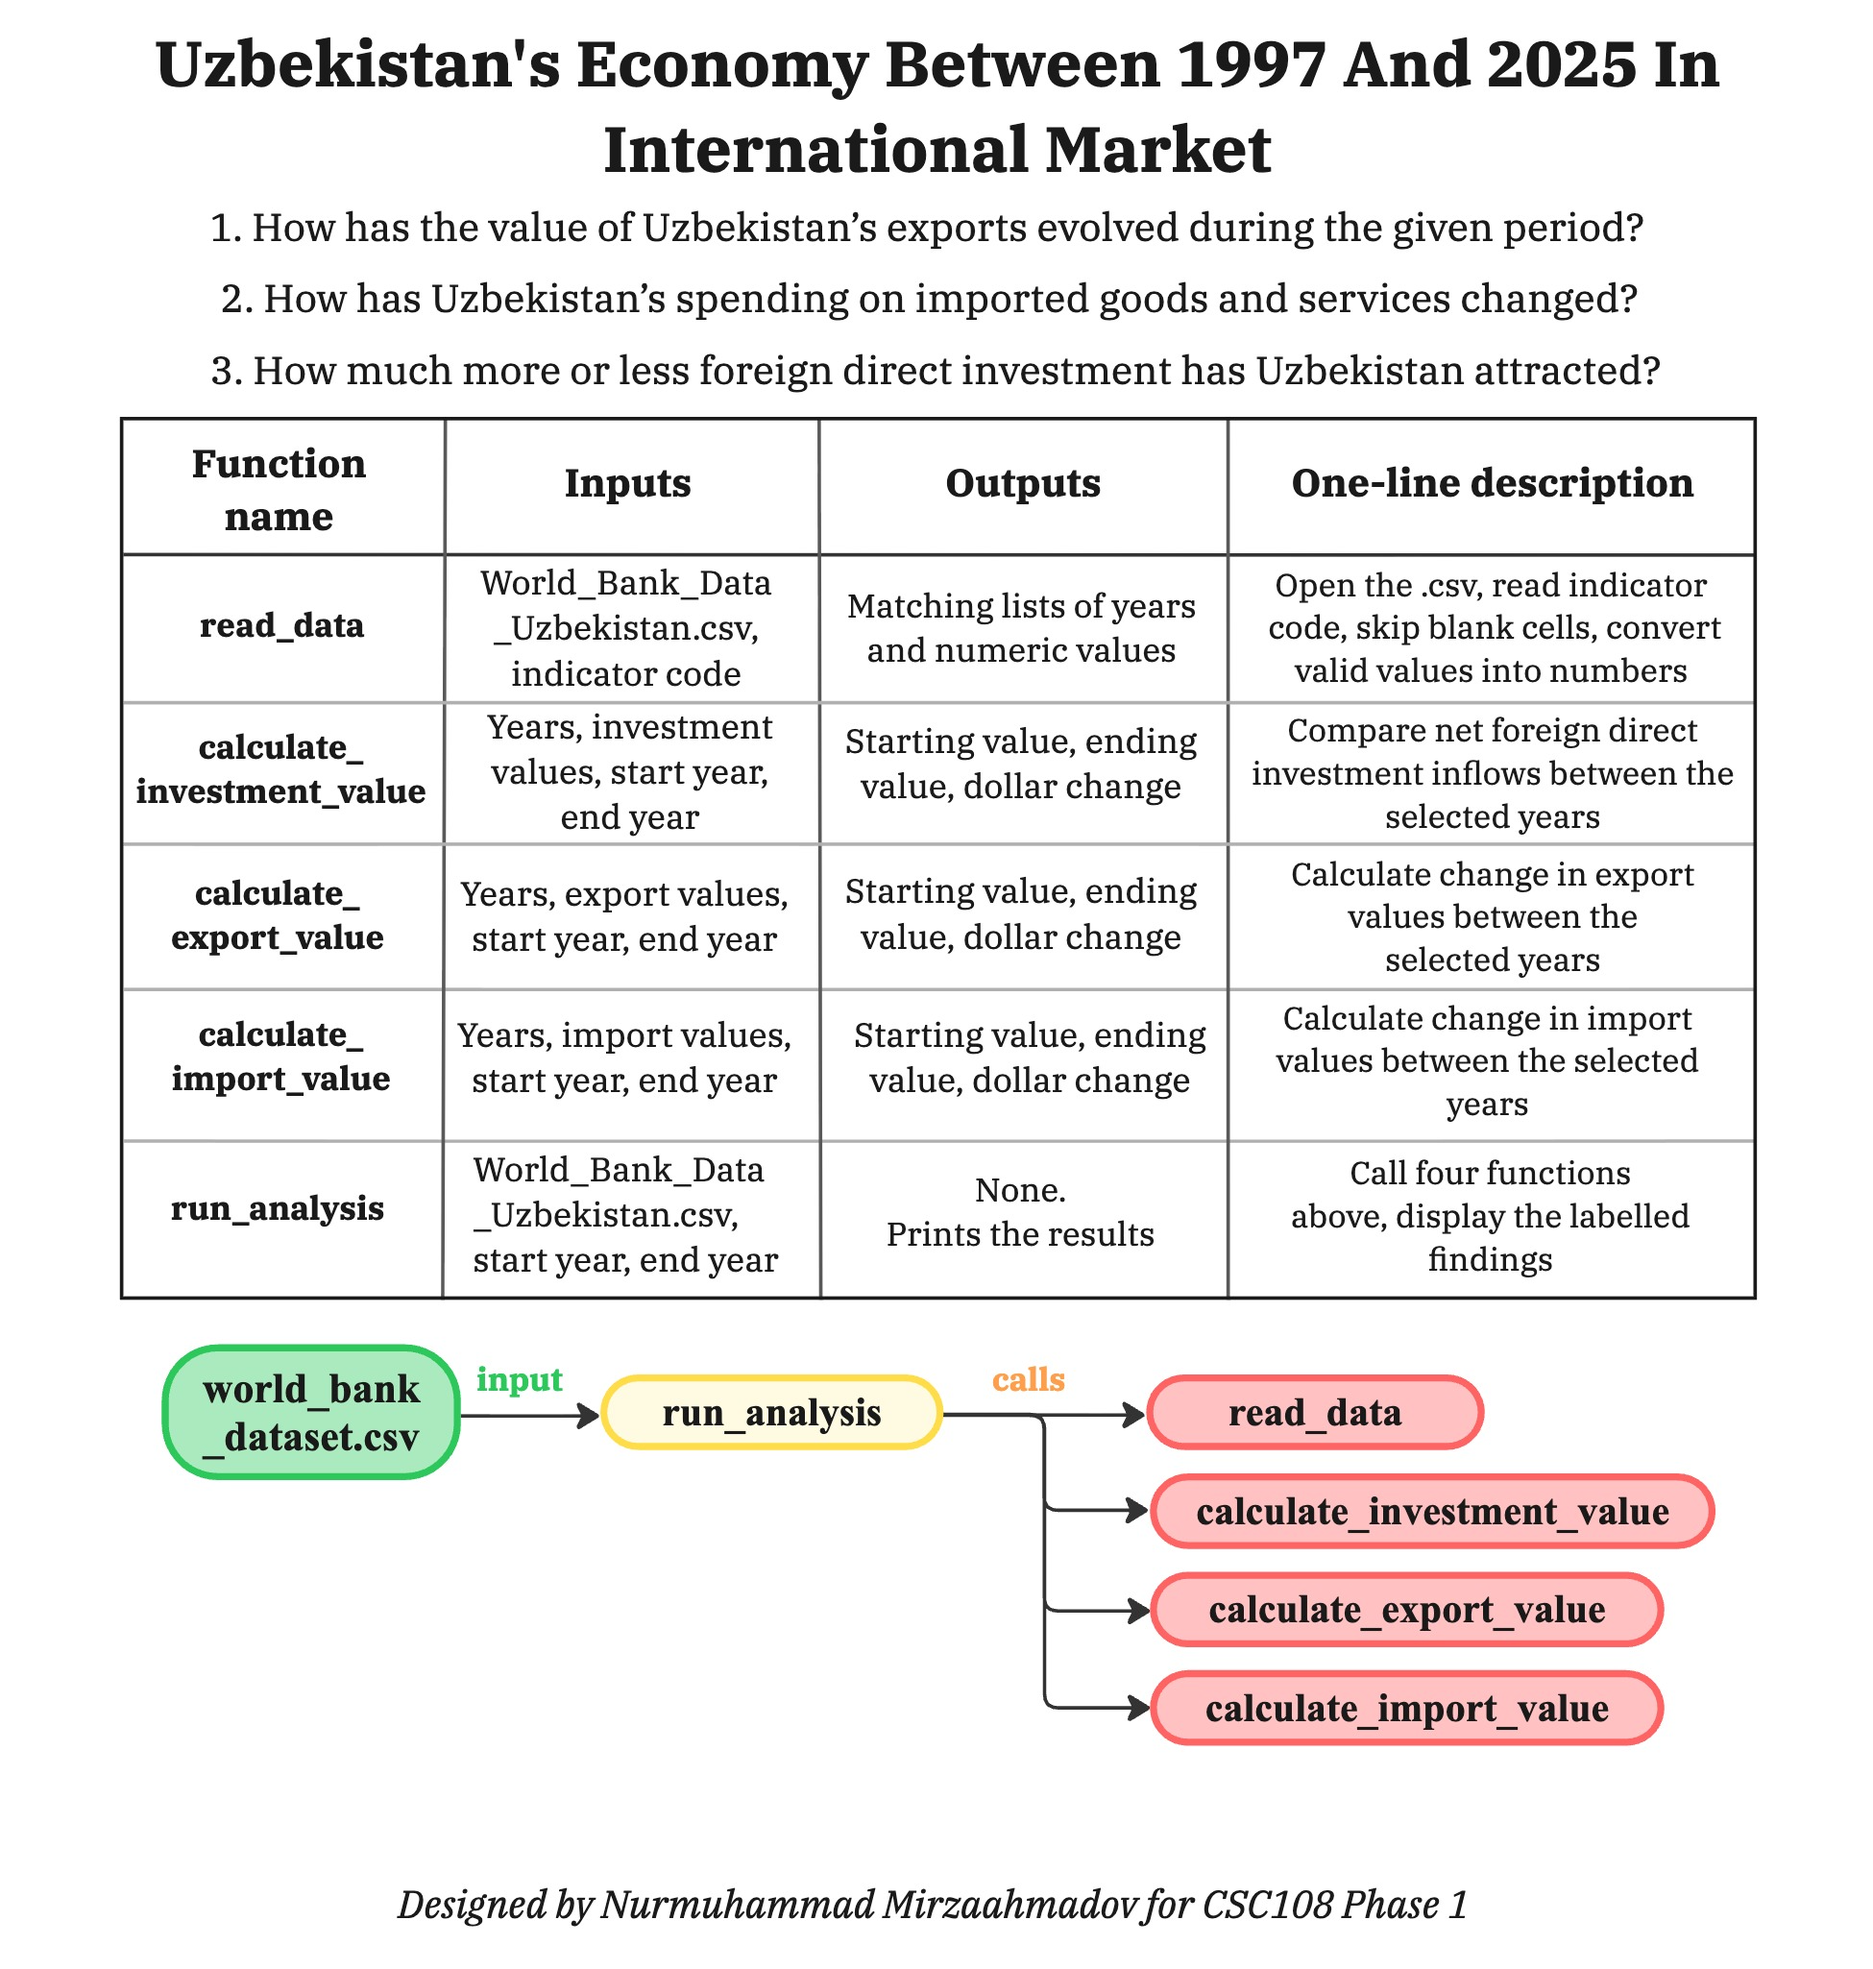
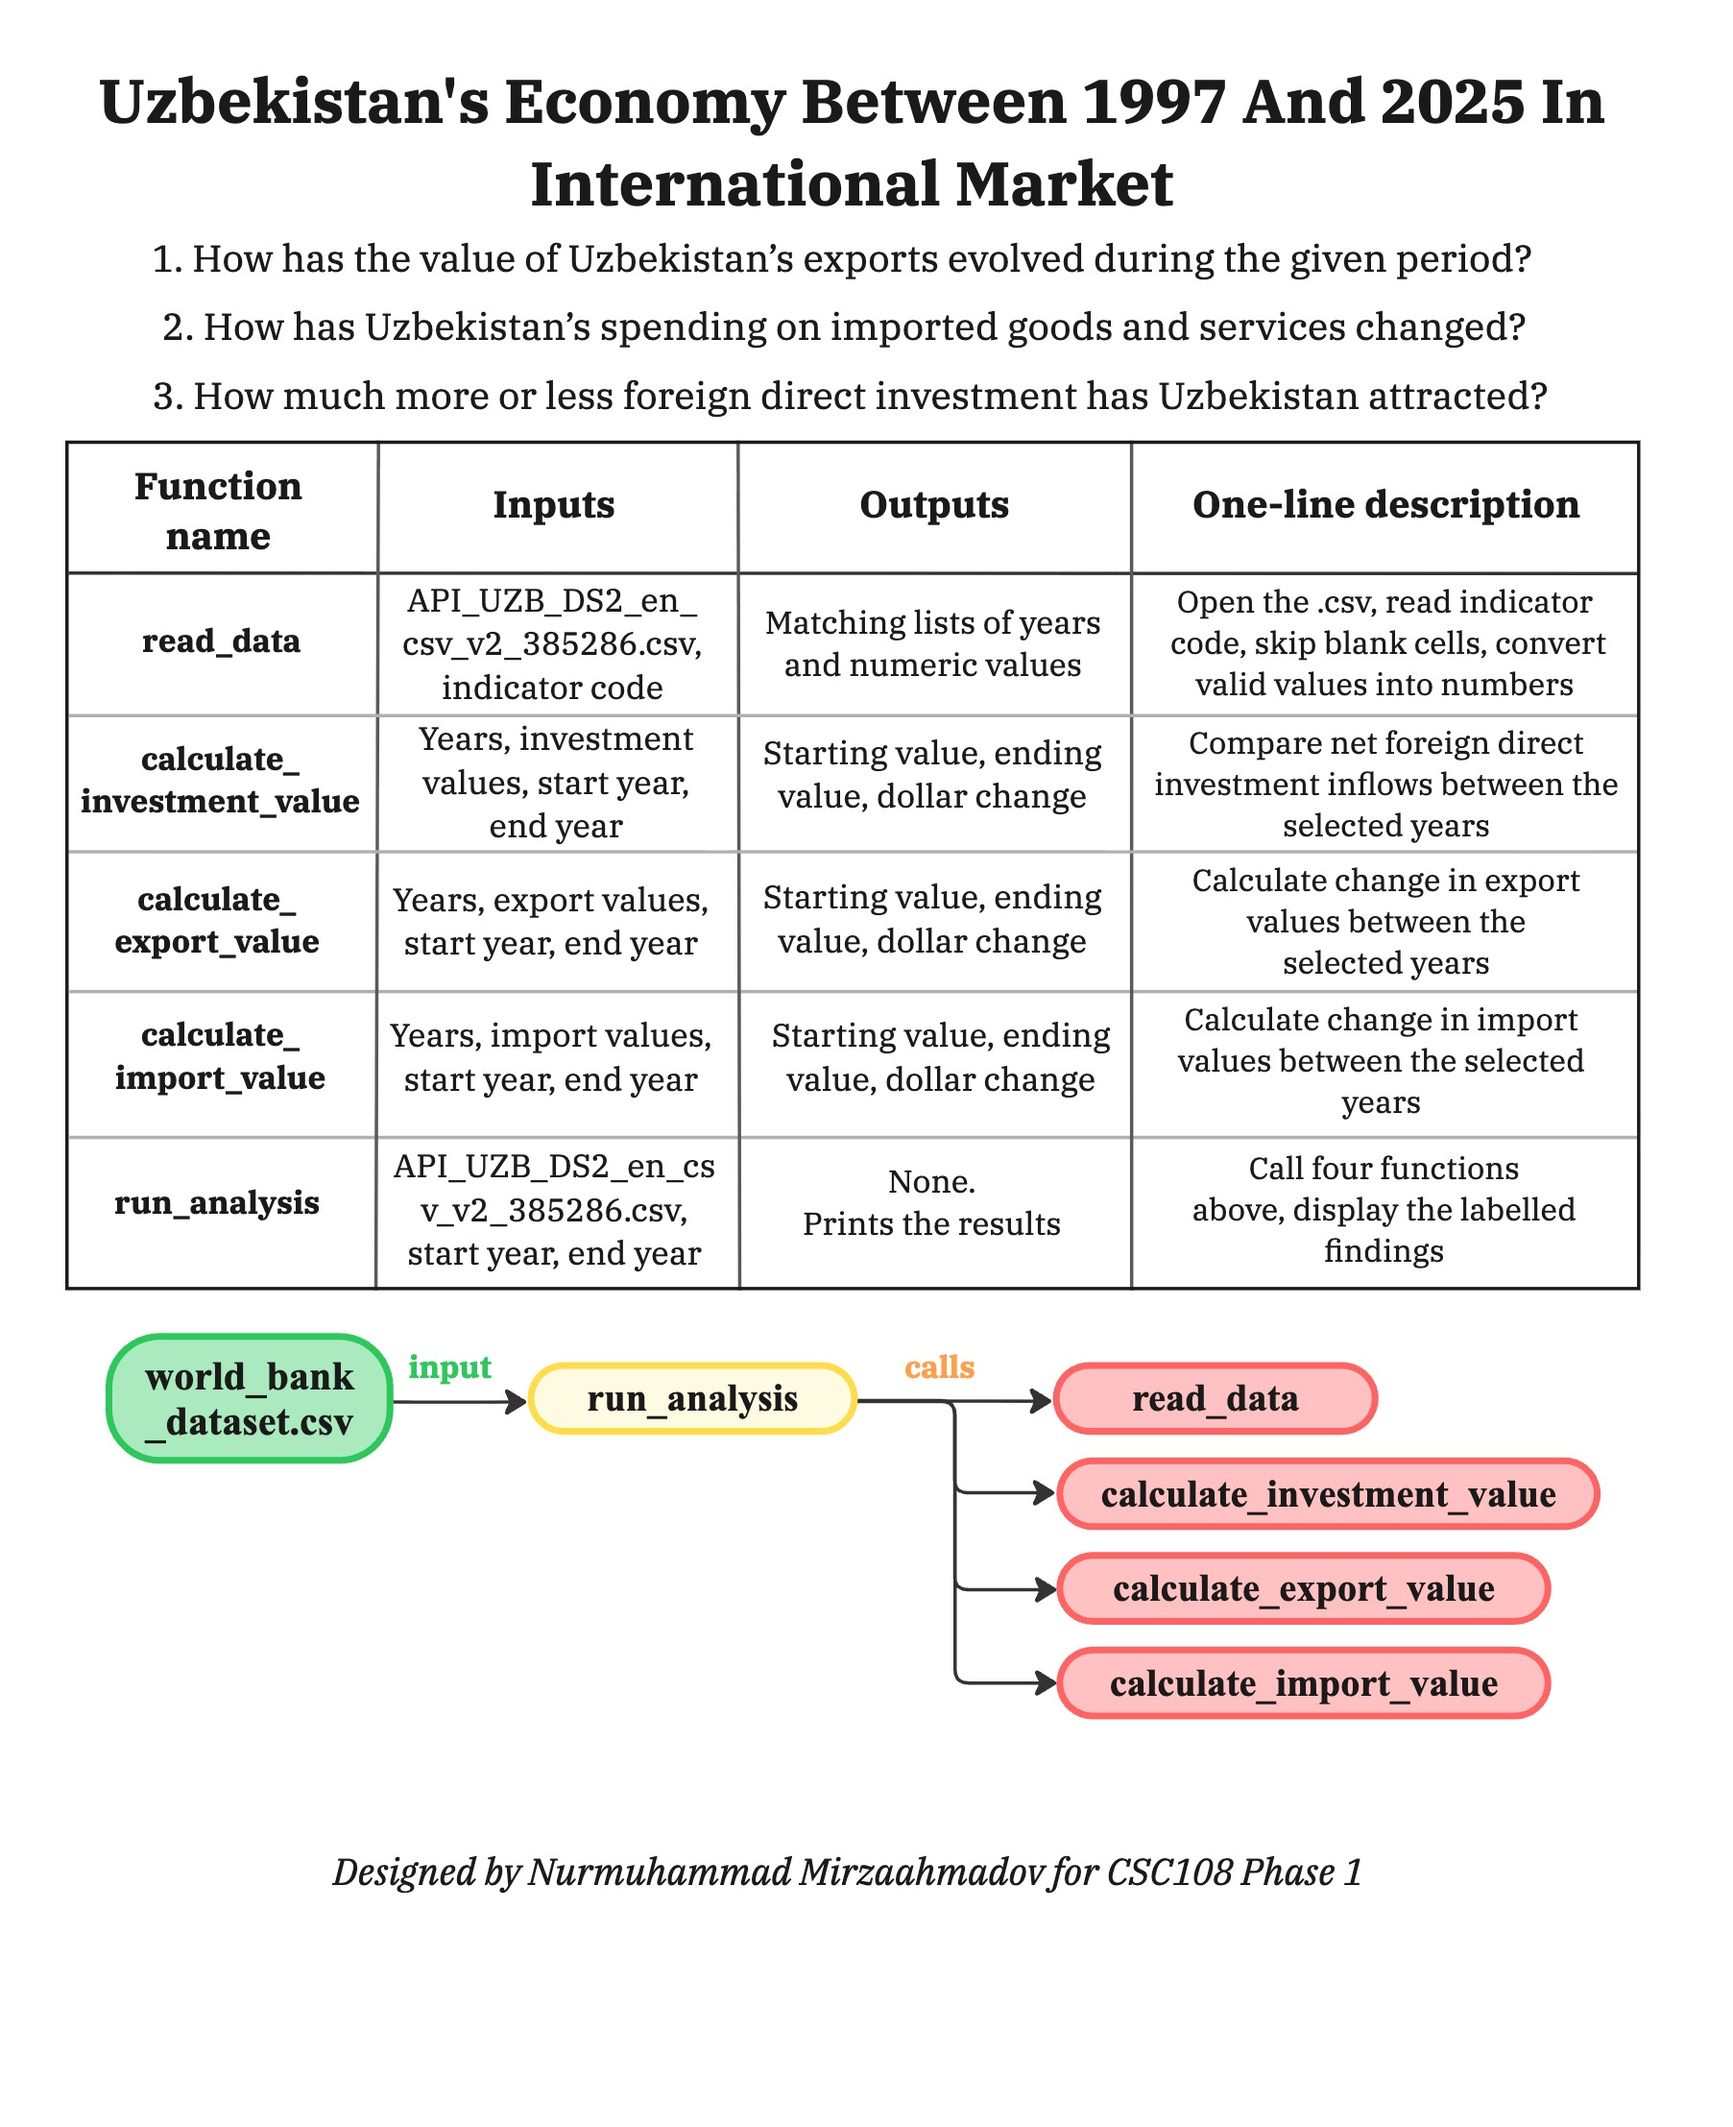
Fixing marginal bugs

diff --git a/phase1.py b/phase1.py
@@ -25,35 +25,13 @@ outputs from functions above
 My diagram represents inputs, outputs, descriptions in more detail.
 Refer to decomp_image.png
 ---------------------------------------------------------
-Dataset: World_Bank_Data_Uzbekistan.csv
-Source: World Bank Open Data
-Link: https://data.worldbank.org/country/uzbekistan
-Note: The dataset comes in archive with three files:
-* Metadata_Country_API_UZB_DS2_en_csv_v2_385286.csv
-* API_UZB_DS2_en_csv_v2_385286.csv
-* Metadata_Indicator_API_UZB_DS2_en_csv_v2_385286.csv
-IMPORTANT: We have real data only in API_UZB_DS2_en_csv_v2_385286.csv
-that I renamed into World_Bank_Data_Uzbekistan.csv for clearness.
-
-From other two files, Metadata_Indicator_API_UZB_DS2_en_csv_v2_385286.csv
-includes explanations and meanings of every indicator codes inside our
-World_Bank_Data_Uzbekistan.csv.
-
-However, I put the needed indicators inside this program:
-IMPORTANT:
-NE.EXP.GNFS.CD - Exports of goods and services
-NE.IMP.GNFS.CD - Imports of goods and services
-BX.KLT.DINV.CD.WD - Foreign direct investment, net inflows
-Notice: These values are calculated in USD currency, not inflation-adjusted.
----------------------------------------------------------
 Programmed by Nurmuhammad Mirzaahmadov for CSC108 Phase 1
 =======================Thank you=========================
 """
 
 import csv
 CSV_FILE = (
-    "/Users/runnp/PycharmProjects/uoft-csc108-fall-cool-project/"
-    "World_Bank_Data_Uzbekistan.csv"
+    "API_UZB_DS2_en_csv_v2_385286.csv"
 )
 INVESTMENT_CODE = "BX.KLT.DINV.CD.WD"
 EXPORT_CODE = "NE.EXP.GNFS.CD"
@@ -130,7 +108,7 @@ def calculate_export_value(years: list, export_values: list, start_year: int,
     return start_value, end_value, change_exports
 
 
-def calculate_import_value(years: list, export_values: list,
+def calculate_import_value(years: list, import_values: list,
                            start_year: int, end_year: int) -> tuple:
     """
     Returns starting, ending, and change in import values between two years.
@@ -138,8 +116,8 @@ def calculate_import_value(years: list, export_values: list,
     start_index = years.index(start_year)
     end_index = years.index(end_year)
 
-    start_value = export_values[start_index]
-    end_value = export_values[end_index]
+    start_value = import_values[start_index]
+    end_value = import_values[end_index]
 
     change_imports = end_value - start_value
     return start_value, end_value, change_imports
